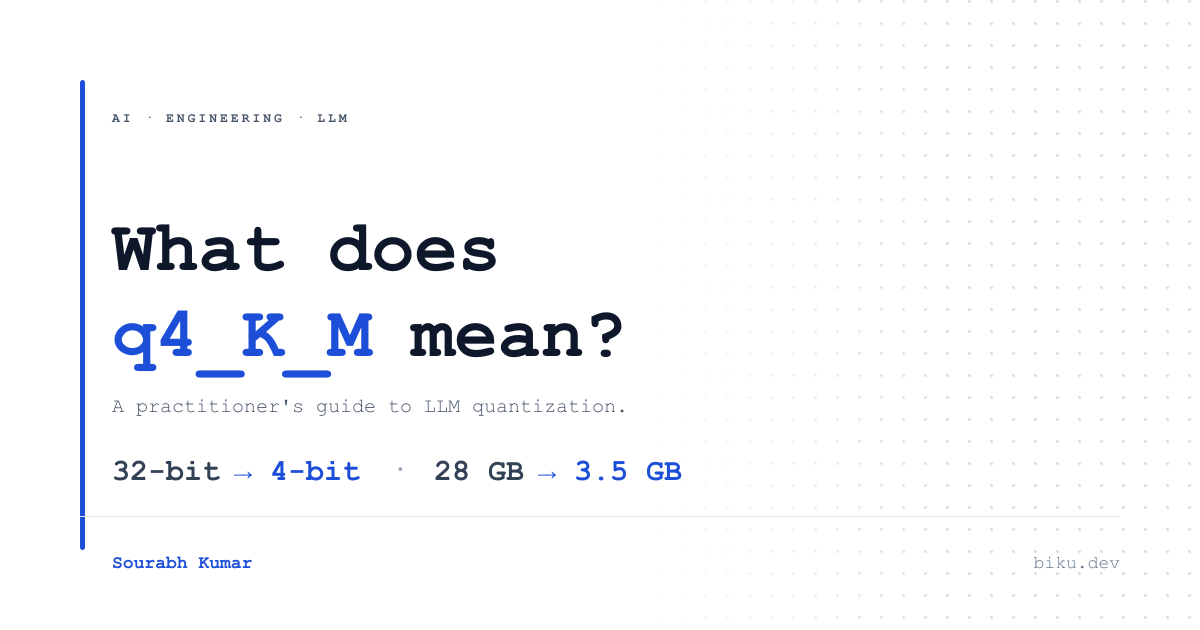
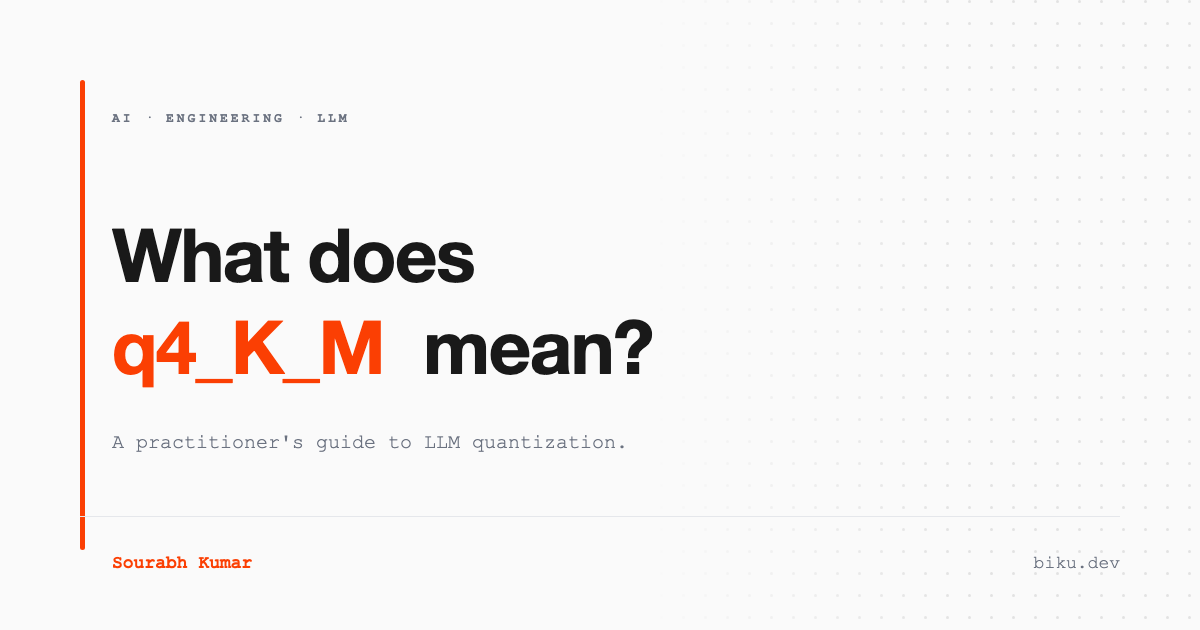
feat: add cover images to blog posts
- Regenerate the 3 existing OG/cover images (harness-engineering,
  llm-quantization-explained, why-ai-agents-cant-remember) to match the
  new brand: orange accent, near-black ink, sans headline font, instead
  of the old blue/mono theme
- Generate matching cover images for the 3 posts that had none
  (hello-world, creator-tenant-platform-split, mvp-to-7k-dau) and wire
  up their frontmatter 'image' field
- Render the cover image as a thumbnail on BlogCard (used in the blog
  index and tag listing pages), sized to the source aspect ratio so
  nothing gets cropped
- Render the cover image as a full-width banner on the actual blog
  post page (BlogLayout), above the table of contents/content
- Fix a flexbox stretch bug where the thumbnail wrapper inherited the
  row's full height, causing object-cover to crop the image sides

Images continue to double as the OG/social share image (already wired
through SEO.astro) and now also serve as in-page visuals.

Changed region(s): [[0.0617, 0.1206, 0.5858, 0.8746], [0.0925, 0.8746, 0.2158, 0.9048], [0.8633, 0.8746, 0.925, 0.9048]]

diff --git a/src/content/blog/mvp-to-7k-dau.md b/src/content/blog/mvp-to-7k-dau.md
@@ -3,6 +3,7 @@ title: "MVP to 7k DAU with a tiny team: what we built, what we refused to build"
 description: "The story of how an MVP grew into a platform with 7k daily active users while the engineering team stayed tiny. What we built, and what we deliberately refused to build."
 pubDate: 2025-02-03
 tags: ["engineering", "product", "startup"]
+image: "/og/mvp-to-7k-dau.png"
 ---
 
 In 2020, we weren't "building a product." We were duct-taping an experiential upskilling program together using tools like Google Classroom, Google Colab notebooks, Slack apps, and spreadsheets.

diff --git a/src/content/blog/creator-tenant-platform-split.md b/src/content/blog/creator-tenant-platform-split.md
@@ -3,6 +3,7 @@ title: "Re-architecting into Creator Platform + Client Tenant Platform: the spli
 description: "When your product serves multiple personas, the fastest way to slow down is to pretend they're all the same system. How we split by domain, change-rate, and risk at Enqurious."
 pubDate: 2025-02-08
 tags: ["engineering", "architecture", "product"]
+image: "/og/creator-tenant-platform-split.png"
 ---
 
 When your product serves multiple personas, the fastest way to slow down is to pretend they're all the same system.

diff --git a/src/content/blog/hello-world.md b/src/content/blog/hello-world.md
@@ -3,6 +3,7 @@ title: "Hello World"
 description: "Welcome to my new portfolio and blog. Here's what I'm building and why."
 pubDate: 2024-01-15
 tags: ["personal", "announcement"]
+image: "/og/hello-world.png"
 ---
 
 Welcome to my corner of the internet. I'm Sourabh Kumar, a Product Engineer currently leading engineering and product at [Enqurious](https://enqurious.com).
